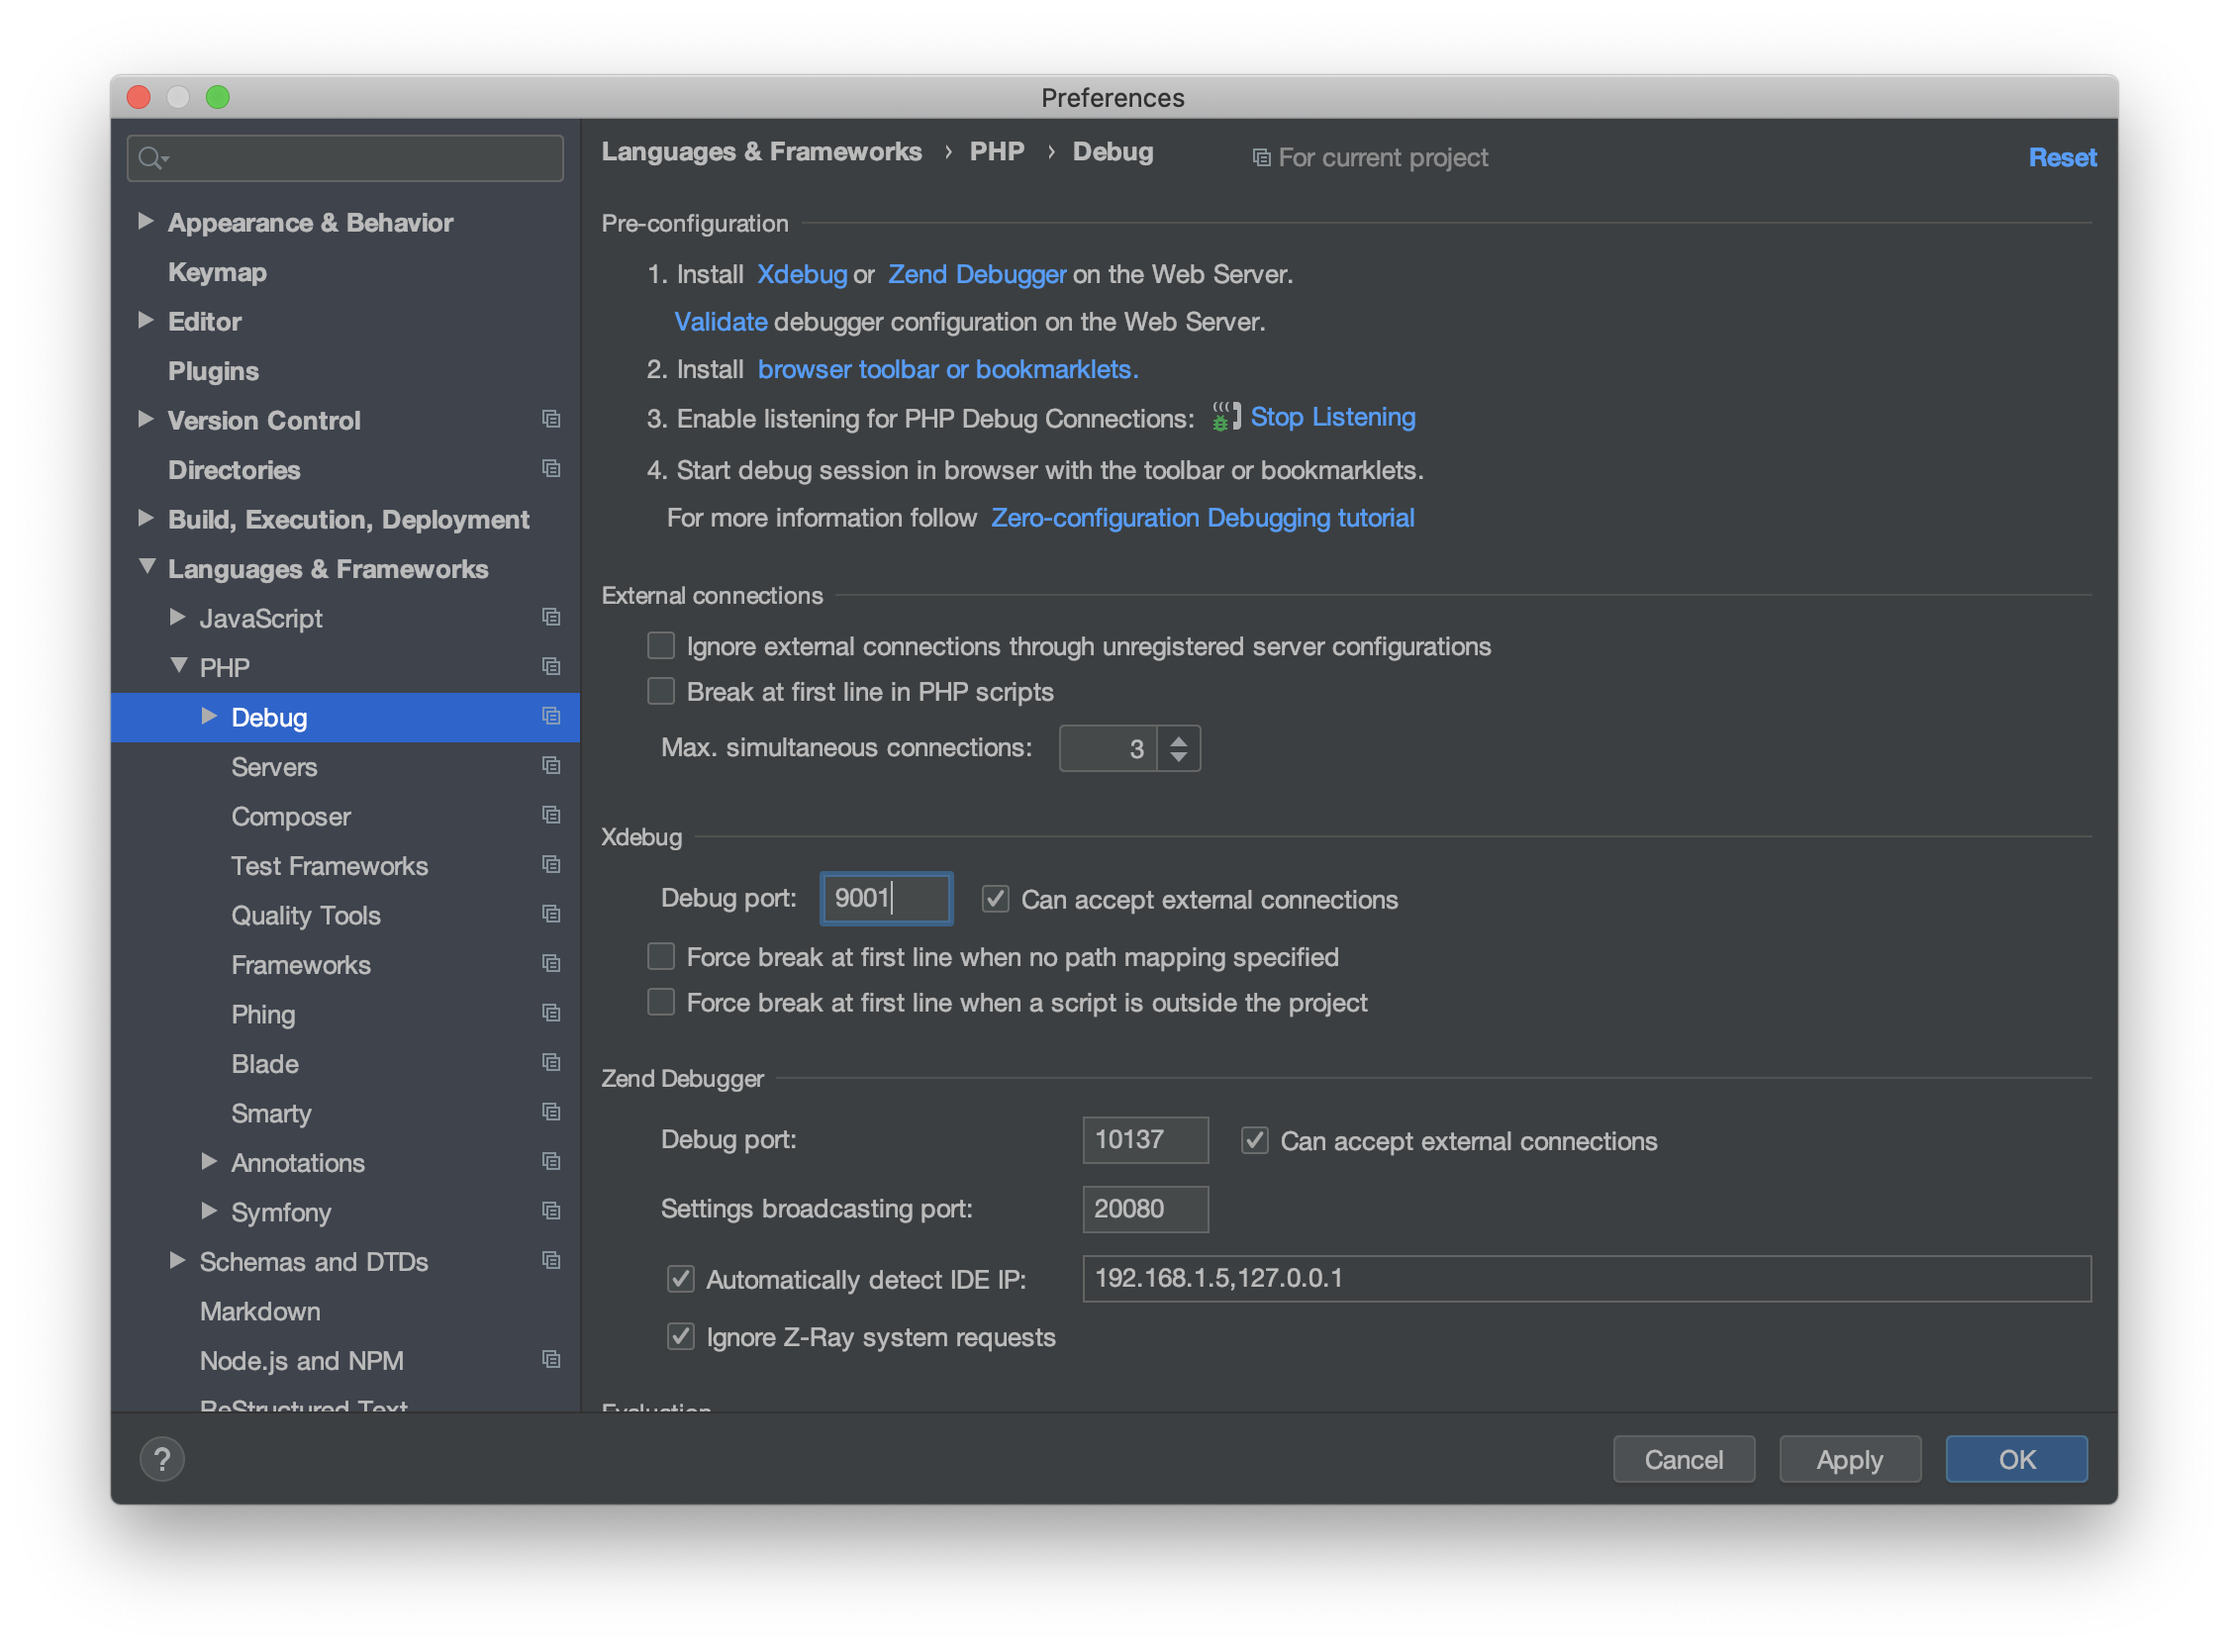
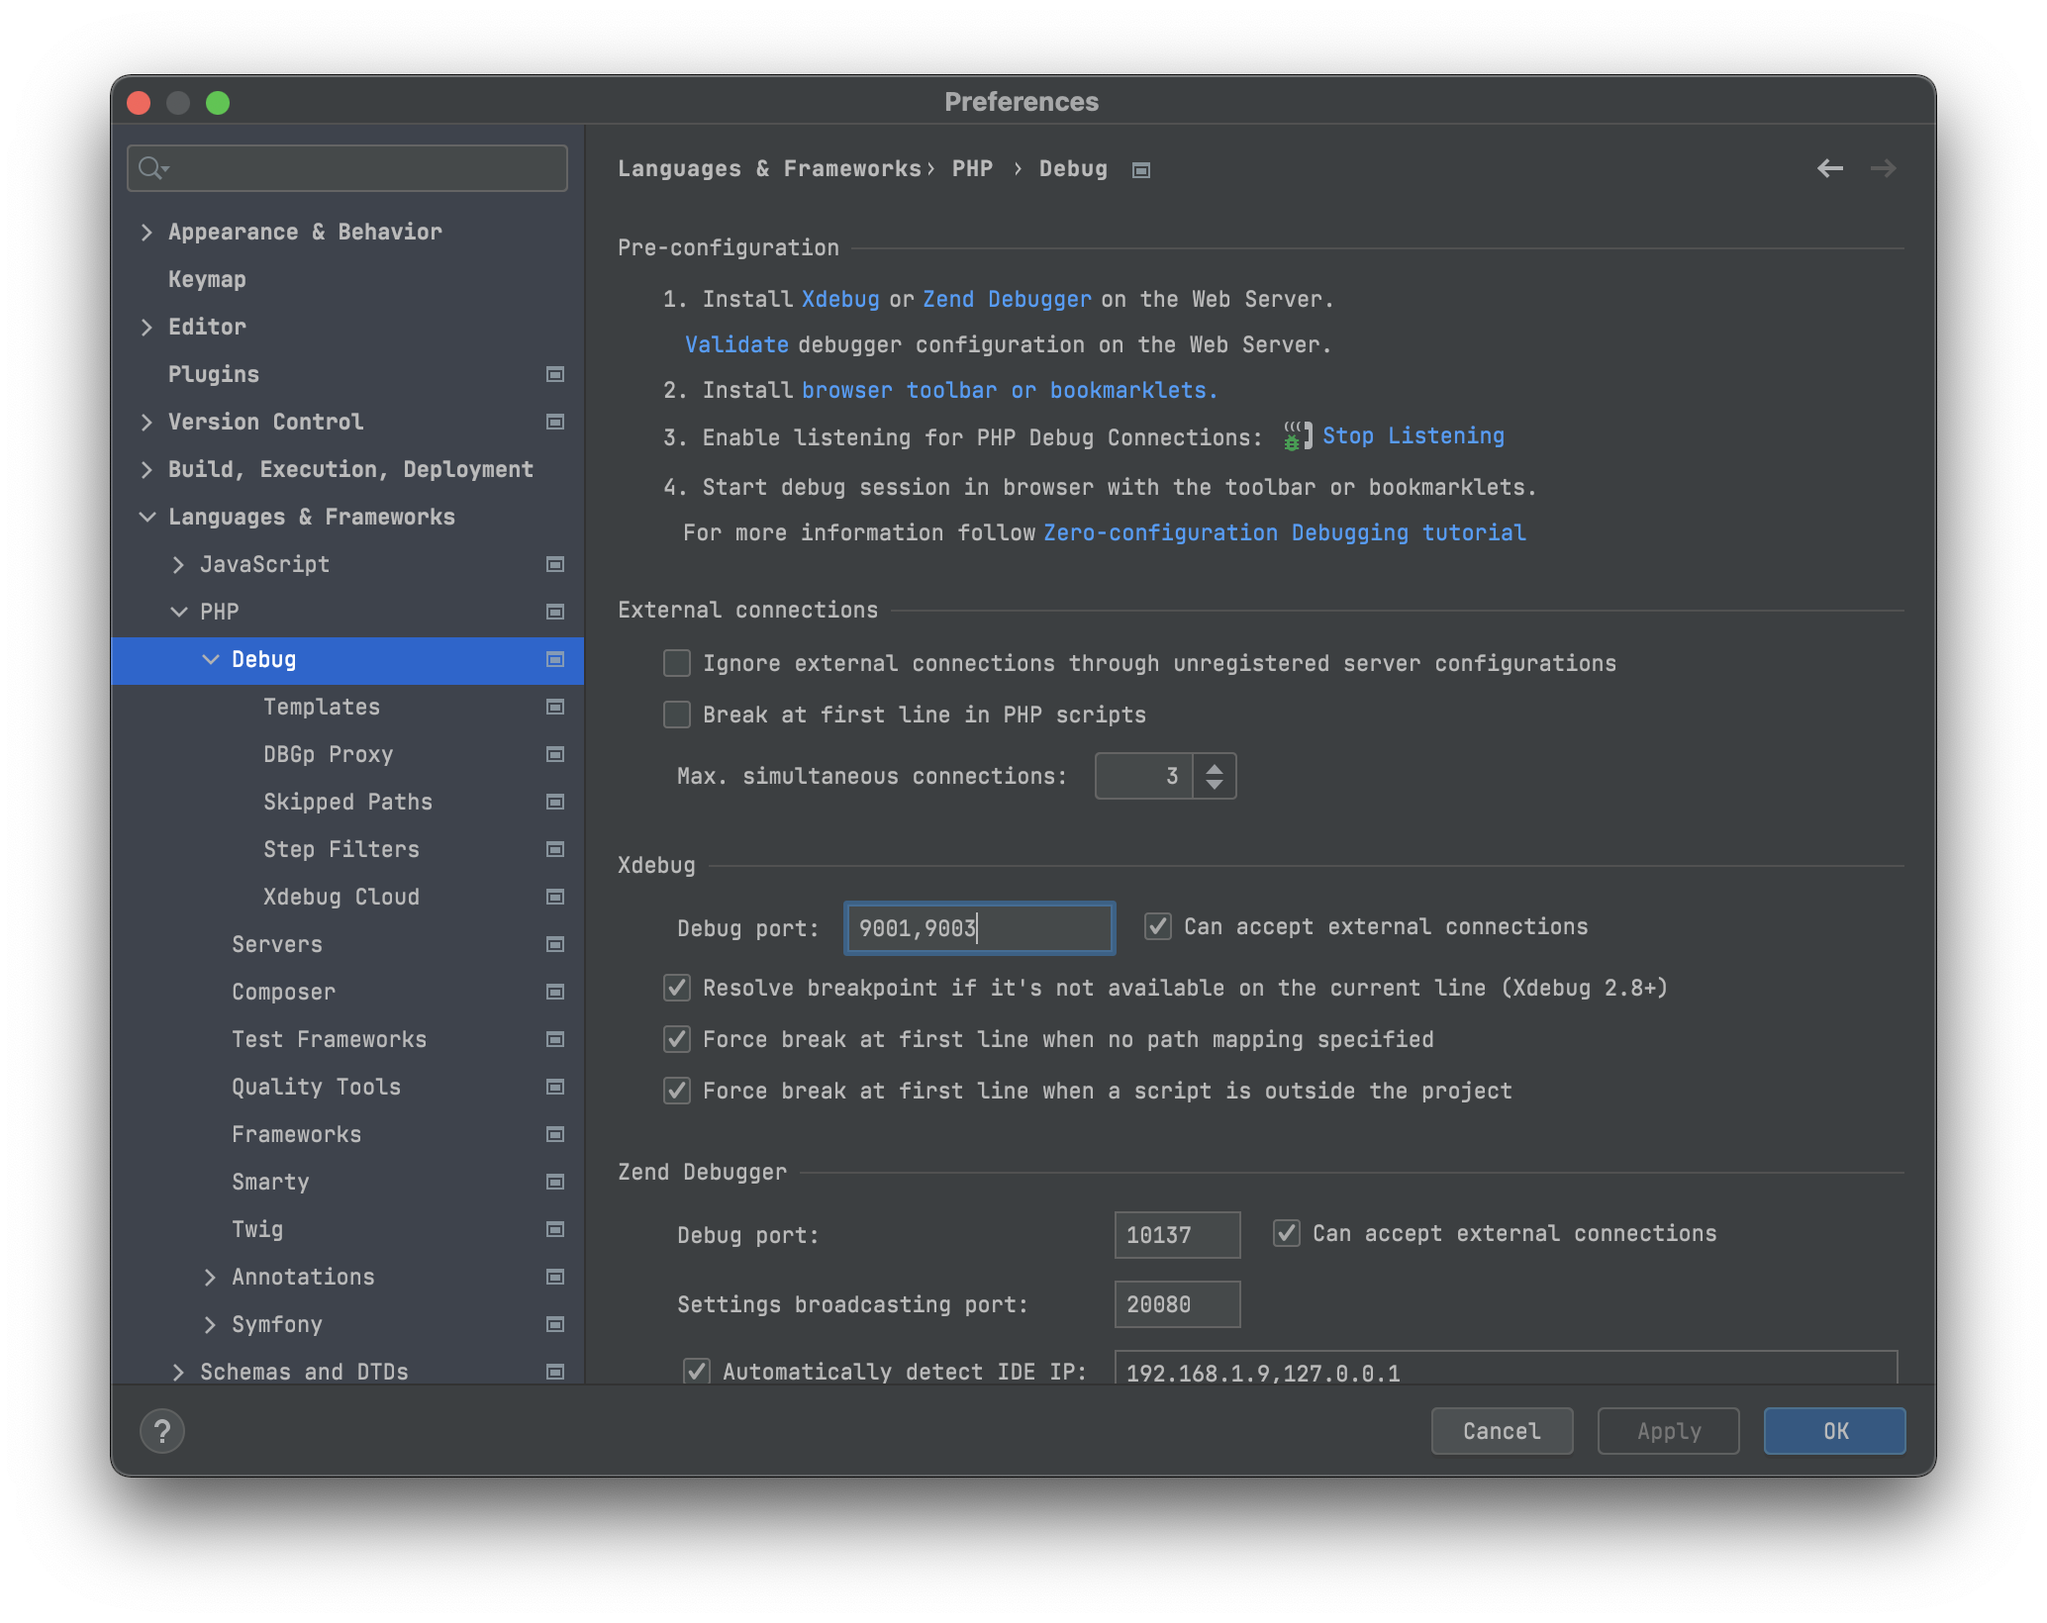
Xdebug added

diff --git a/doc/xdebug/xdebug.md b/doc/xdebug/xdebug.md
@@ -3,16 +3,19 @@ The steps bellow must be performed after deployment of local environment and lau
 1. Open `Settings` (`Ctrl + Alt + S`) or `Preferences` (`⌘ + ,`)
 2. Go to `Languages & Frameworks`, `PHP`, `Debug`
     ![](1.png)
-    - set value `9001` for `Debug port` field
+    - set value `9003` for `Debug port` field  
+   (or another specific value due to `EXTERNAL_XDEBUG_PORT` in your `.env` file)
 3. Go to `DBGp Proxy` there
     ![](2.png)
-    - set value `PHPSTORM` for `IDE key` field
+    - set value `PHPSTORM` for `IDE key` field (or your specific value in [`xdebug.ini`](../../docker/php/conf/xdebug.ini))
     - set value `localhost` (or your specific domain) for `Host` field
-    - set value `9001` for `Port` field
+    - set value `9003` for `Port` field  
+      (or another specific value due to `EXTERNAL_XDEBUG_PORT` in your `.env` file)
 4. Then go to `Servers` (one level higher in settings hierarchy -> `Languages & Frameworks`, `PHP`, `Servers`)
     ![](3.png)
     - add new server with `+`
-        - set value `docker-server` for `Name` field
+        - set value `docker-server` for `Name` field  
+      (or your specific value due to `PHP_IDE_CONFIG` in your `.env` file)
         - set value `localhost` (or your specific domain) for `Host` field
         - set value `80` for `Port` field
         - map the path to your application to directory `/var/www/app` into container

diff --git a/README.md b/README.md
@@ -38,4 +38,4 @@ Have a look at the [docker-compose.yml](docker-compose.yml) file, here are the `
 
 All images based on [alpine linux](https://alpinelinux.org/) with its [packages](https://pkgs.alpinelinux.org/packages)
 ## Use xdebug
-Don't forget to configure your IDE with xdebug. For configuring PhpStorm see this [document](doc/xdebug/xdebug.md)
+Don't forget to configure your IDE with xdebug. For configuring IDE see this [document](doc/xdebug/xdebug.md)
